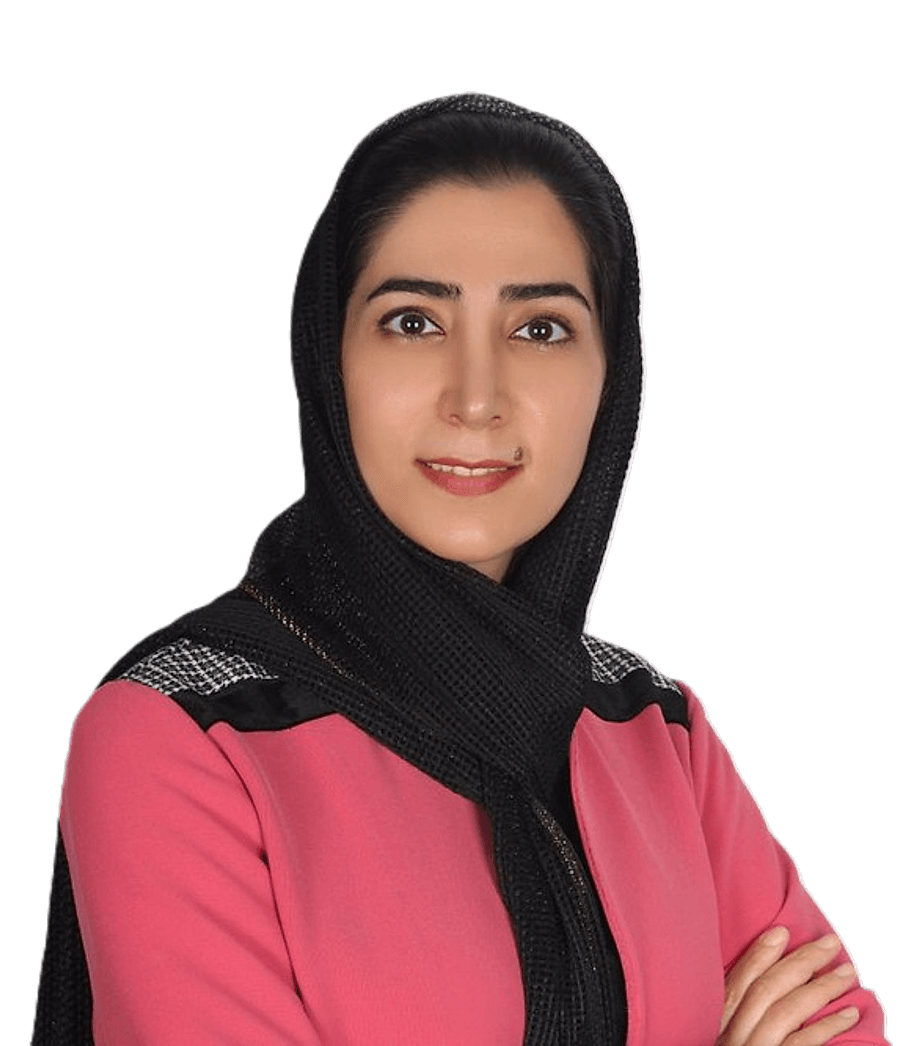
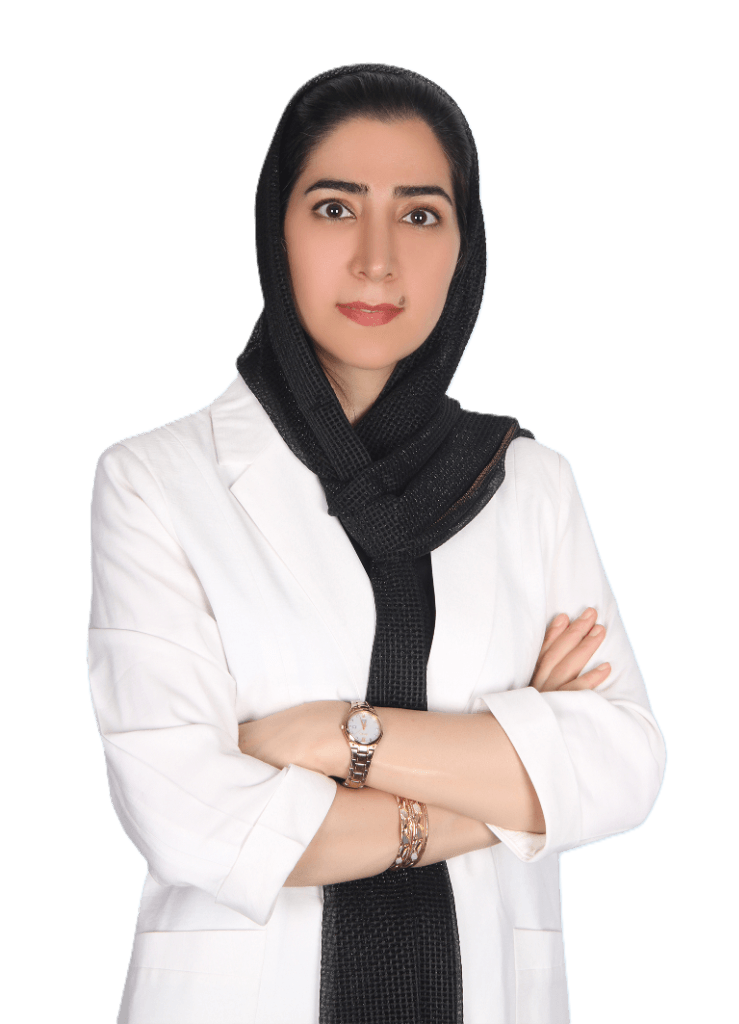
fix(coach): prioritize Sanity dynamic cutout in SoleaHero and update Arezoo Ghaffari hero portrait

diff --git a/src/components/sections/coach-v4/SoleaHero.tsx b/src/components/sections/coach-v4/SoleaHero.tsx
@@ -77,9 +77,10 @@ export const SoleaHero: React.FC<SoleaHeroProps> = ({ coach, onOpenMenu, onOpenB
 
   const coachBio = getHeroBio();
 
-  // Determine coach specific hero portrait
+  // Determine coach specific hero portrait (Sanity CMS dynamic cutout first, then coach-specific static fallback)
   const getHeroImage = () => {
-    if (slug.includes('parmiss')) return coach?.cutoutImageUrl || '/images/solea/parmiss_hero_v4.png';
+    if (coach?.cutoutImageUrl) return coach.cutoutImageUrl;
+    if (slug.includes('parmiss')) return '/images/solea/parmiss_hero_v4.png';
     if (slug.includes('mahya')) return '/images/solea/mahya_hero_v4.png';
     if (slug.includes('fatemeh') && slug.includes('esmaeeli')) return '/images/solea/fatemeh_hero_v4.png';
     if (slug.includes('arezoo') && slug.includes('ghaffari')) return '/images/solea/arezoo_hero.png';
@@ -87,7 +88,6 @@ export const SoleaHero: React.FC<SoleaHeroProps> = ({ coach, onOpenMenu, onOpenB
     if (slug.includes('derakhsh') || slug.includes('darkhosh')) return '/images/solea/fatemeh_derakhsh_hero_v4.png';
     if (slug.includes('saloomeh') || slug.includes('salomeh')) return '/images/solea/saloomeh_hero_v4.png';
     return (
-      coach?.cutoutImageUrl ||
       coach?.coverImage ||
       coach?.imageUrl ||
       '/images/solea/fatemeh_hero_v4.png'
